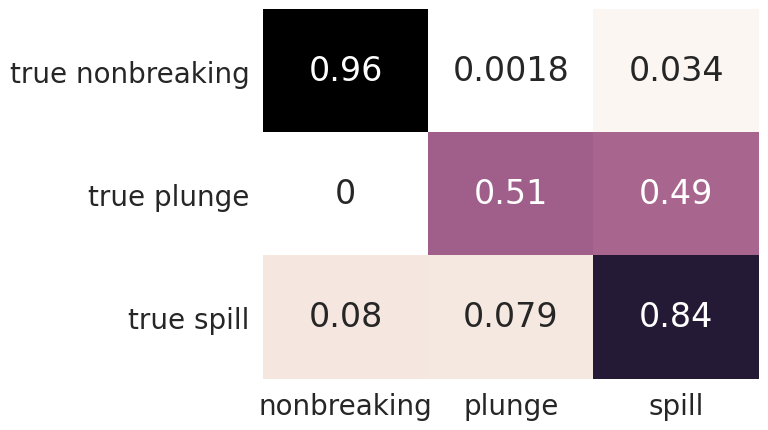
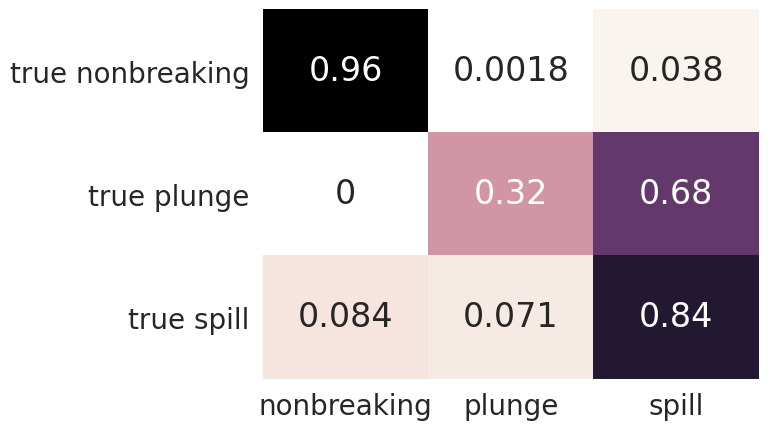
new figures from updated two input extraction

diff --git a/utils.py b/utils.py
@@ -15,7 +15,6 @@ import numpy as np
 import warnings
 warnings.filterwarnings('ignore')
 
-import torchvision.transforms as T
 import albumentations as A
 from tensorflow.python.keras.models import Model
 from tensorflow.python.keras.layers import Input
@@ -318,8 +317,8 @@ def transform(augment, image_shape, img1, img2=None):
     if augment:
         preprocess_transform = A.Compose([
             A.Rotate(limit=20, p=0.6),
-            A.RandomResizedCrop(image_shape[0], image_shape[1], scale=(0.8, 1.2)),
-            #A.ColorJitter(0.3, 0.2, 0.2, 0.2),
+            A.RandomResizedCrop(image_shape[0], image_shape[1], scale=(0.9, 1.3)),
+            A.RandomBrightnessContrast(p=0.5)
             ],
             additional_targets = additional_targets
         )
